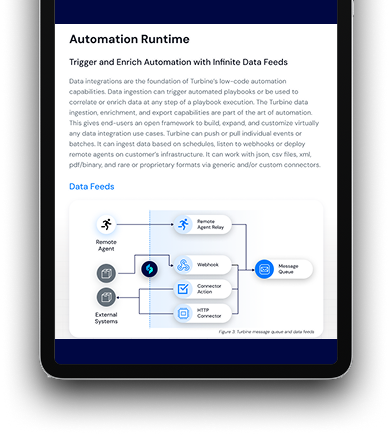
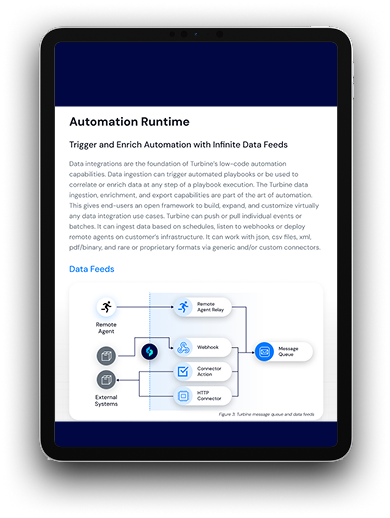
Fix: Improve responsive design on smaller screens

diff --git a/src/styles/main.css b/src/styles/main.css
@@ -78,9 +78,9 @@
   border-radius: 100%;
   background: radial-gradient(#D8F9FD, #D1C1F7, #0F52BD, rgba(0, 0, 0, 0));
   filter: blur(50px);
-  animation: animated-gradient-u8x65i7 5s linear infinite alternate;
+  animation: animated-gradient-ujqzy52 5s linear infinite alternate;
 }
-@keyframes animated-gradient-u8x65i7 {
+@keyframes animated-gradient-ujqzy52 {
   0% {
     left: 80%;
     top: -30%;
@@ -104,9 +104,9 @@
   border-radius: 100%;
   background: radial-gradient(#D8F9FD, #D1C1F7, #0F52BD, rgba(0, 0, 0, 0));
   filter: blur(50px);
-  animation: animated-gradient-u8x65ig 5s linear infinite alternate;
+  animation: animated-gradient-ujqzy62 5s linear infinite alternate;
 }
-@keyframes animated-gradient-u8x65ig {
+@keyframes animated-gradient-ujqzy62 {
   0% {
     top: 0%;
     left: -10%;
@@ -325,7 +325,7 @@
   z-index: 10;
 }
 .mockups-container img:nth-of-type(2) {
-  top: 0;
+  top: -82px;
   right: -35px;
   z-index: 0;
 }
@@ -355,7 +355,7 @@
 }
 .reviews .content {
   max-width: 1536px;
-  padding: 200px 80px;
+  padding: 200px 40px;
   margin: 0 auto;
   display: flex;
   justify-content: space-between;
@@ -365,6 +365,11 @@
 @media (min-width: 1024px) {
   .reviews .content {
     flex-direction: row;
+  }
+}
+@media (min-width: 640px) {
+  .reviews .content {
+    padding: 200px 80px;
   }
 }
 .reviews .content-box {
@@ -387,8 +392,8 @@
 .certificate-container {
   padding: 10px;
   background: rgba(255, 255, 255, 0.1);
-  width: 340px;
-  height: 360px;
+  max-width: 340px;
+  max-height: 360px;
   border-radius: 20px;
   box-shadow: 0 20px 60px rgba(0, 0, 0, 0.18);
 }
@@ -439,11 +444,23 @@
 .previous-btn {
   top: 50%;
   left: -60px;
+  display: none;
+}
+@media (min-width: 640px) {
+  .previous-btn {
+    display: block;
+  }
 }
 
 .next-btn {
   top: 50%;
   right: -60px;
+  display: none;
+}
+@media (min-width: 640px) {
+  .next-btn {
+    display: block;
+  }
 }
 
 .cta {
@@ -464,11 +481,16 @@
   z-index: 20;
 }
 .cta .primary-text {
-  font-size: 80px;
+  font-size: 60px;
   letter-spacing: -3px;
   margin-bottom: 60px;
   color: #FFFFFF;
   line-height: 1;
+}
+@media (min-width: 768px) {
+  .cta .primary-text {
+    font-size: 80px;
+  }
 }
 .cta .grid-pattern-left {
   position: absolute;
@@ -576,11 +598,16 @@
 }
 
 .primary-text {
-  font-size: 60px;
+  font-size: 48px;
   font-weight: 700;
   line-height: 1.1;
   letter-spacing: -2px;
   margin-bottom: 20px;
+}
+@media (min-width: 768px) {
+  .primary-text {
+    font-size: 60px;
+  }
 }
 
 .secondary-text {

diff --git a/src/scss/_reviews.scss b/src/scss/_reviews.scss
@@ -7,7 +7,7 @@
 
   .content {
     max-width: 1536px;
-    padding: 200px 80px;
+    padding: 200px 40px;
     margin: 0 auto;
     display: flex;
     justify-content: space-between;
@@ -16,6 +16,10 @@
 
     @include device(lg) {
       flex-direction: row;
+    }
+
+    @include device(sm) {
+      padding: 200px 80px;
     }
   }
 
@@ -43,8 +47,8 @@
 .certificate-container {
   padding: 10px;
   background: rgba($color: $color-white, $alpha: 0.1);
-  width: 340px;
-  height: 360px;
+  max-width: 340px;
+  max-height: 360px;
   border-radius: 20px;
   box-shadow: 0 20px 60px rgba($color: #000000, $alpha: 0.18);
 
@@ -97,9 +101,19 @@
 .previous-btn {
   top: 50%;
   left: -60px;
+  display: none;
+
+  @include device(sm) {
+    display: block;
+  }
 }
 
 .next-btn {
   top: 50%;
   right: -60px;
+  display: none;
+
+  @include device(sm) {
+    display: block;
+  }
 }

diff --git a/src/scss/_cta.scss b/src/scss/_cta.scss
@@ -1,4 +1,5 @@
 @use "variables" as *;
+@use "responsive" as *;
 
 .cta {
     display: flex;
@@ -19,11 +20,15 @@
     }
 
     .primary-text {
-        font-size: 80px;
+        font-size: 60px;
         letter-spacing: -3px;
         margin-bottom: 60px;
         color: $color-white;
         line-height: 1;
+
+        @include device(md) {
+            font-size: 80px;
+        }
     }
 
     .grid-pattern-left {

diff --git a/src/scss/main.scss b/src/scss/main.scss
@@ -1,5 +1,6 @@
 @use "variables" as *;
 @use "animation" as *;
+@use "responsive" as *;
 @use "hero";
 @use "banner";
 @use "reviews";
@@ -66,11 +67,15 @@
 }
 
 .primary-text {
-    font-size: 60px;
+    font-size: 48px;
     font-weight: 700;
     line-height: 1.1;
     letter-spacing: -2px;
     margin-bottom: 20px;
+
+    @include device(md) {
+        font-size: 60px;
+    }
 }
 
 .secondary-text {

diff --git a/src/scss/_banner.scss b/src/scss/_banner.scss
@@ -52,7 +52,7 @@
     }
 
     img:nth-of-type(2) {
-        top: 0;
+        top: -82px;
         right: -35px;
         z-index: 0;
     }
